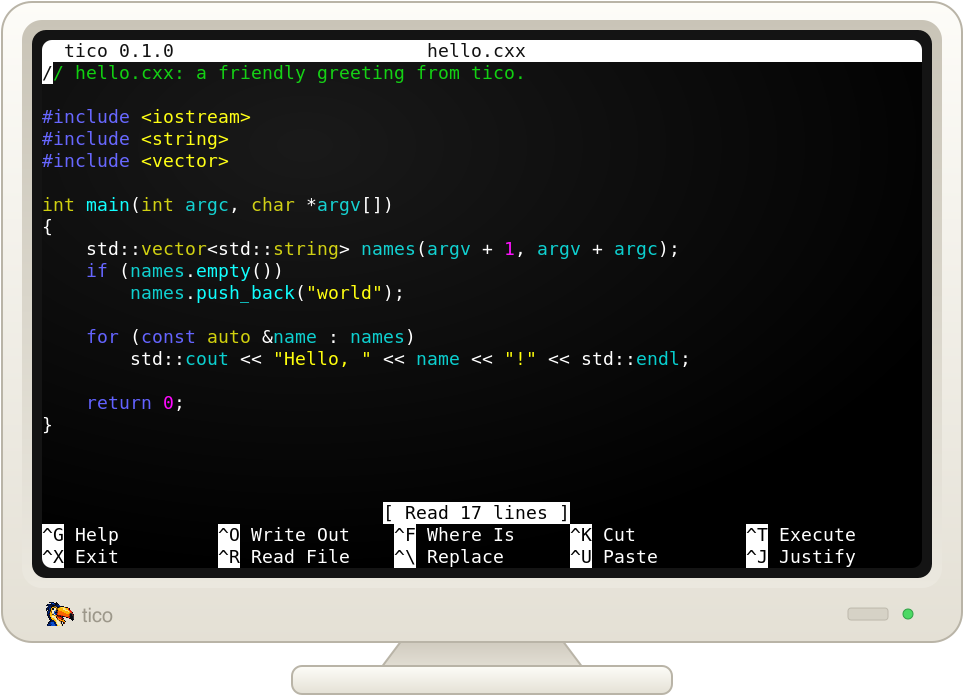
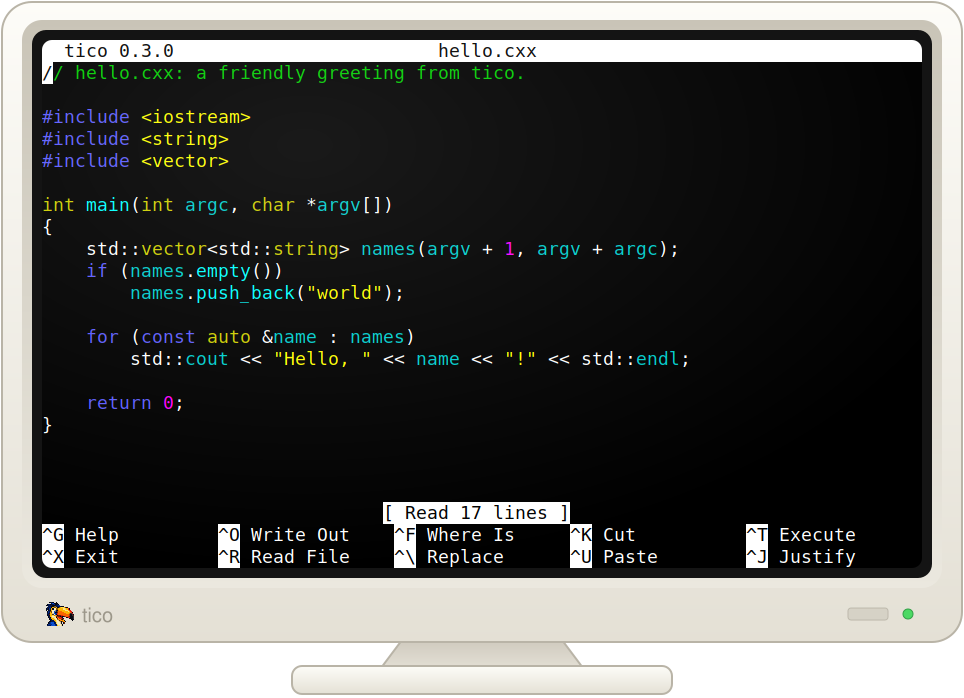
Update the screenshots to tico 0.3.0
Retake the CRT and theme screenshots, which still showed 0.1.0 in the
title bar.

capture.sh only ran on macOS, so find the X tools on PATH and identify
the window by its XTerm class. Add extra/themes/capture.sh, since the
theme shots had no script, and sample.rs, transcribed from the old
screenshot. The theme shots lose xterm's 2px border (now 1012x1056);
below the title bar they match the old ones pixel for pixel.

diff --git a/extra/themes/sample.rs b/extra/themes/sample.rs
@@ -1,0 +1,43 @@
+//! Preview: syntax highlighting theme sample.
+
+use std::collections::HashMap;
+use std::fmt;
+
+/// A book borrowed from the library.
+#[derive(Debug, Clone)]
+pub struct Book<'a> {
+    pub title: &'a str,
+    pub pages: u32,
+}
+
+impl<'a> fmt::Display for Book<'a> {
+    fn fmt(&self, f: &mut fmt::Formatter<'_>) -> fmt::Result {
+        write!(f, "{} ({} pages)", self.title, self.pages)
+    }
+}
+
+#[derive(Debug)]
+enum Status {
+    Available,
+    Borrowed { by: String, days: u16 },
+}
+
+fn describe(status: &Status) -> String {
+    match status {
+        Status::Available => "on the shelf".to_string(),
+        Status::Borrowed { by, days } if *days > 30 => {
+            format!("overdue, held by {by}")
+        }
+        Status::Borrowed { by, .. } => format!("out to {by}"),
+    }
+}
+
+fn main() -> Result<(), Box<dyn std::error::Error>> {
+    let mut shelf: HashMap<u32, Book> = HashMap::new();
+    shelf.insert(1, Book { title: "The Rust Book", pages: 528 });
+
+    for (id, book) in &shelf {
+        println!("#{id}: {book} — {}", describe(&Status::Available));
+    }
+    Ok(())
+}

diff --git a/CLAUDE.md b/CLAUDE.md
@@ -96,3 +96,10 @@ To add a language:
    then run `./build.pl`. Load `/?hello=EXT` under `plackup test.psgi` to see it on
    the page.
 5. Commit the source file, the PNG, the template, and the regenerated `.html`.
+
+## Theme screenshots
+
+`docs/configuration.md` shows every built-in theme highlighting
+`extra/themes/sample.rs`, in `docs/images/themes/tico-builtin-NAME.png` (1012x1056).
+`extra/themes/capture.sh` takes them in a 92x48 xterm (DejaVu Sans Mono 13); give it
+theme names to redo only those. Like `extra/crt/capture.sh`, the user has to run it.
